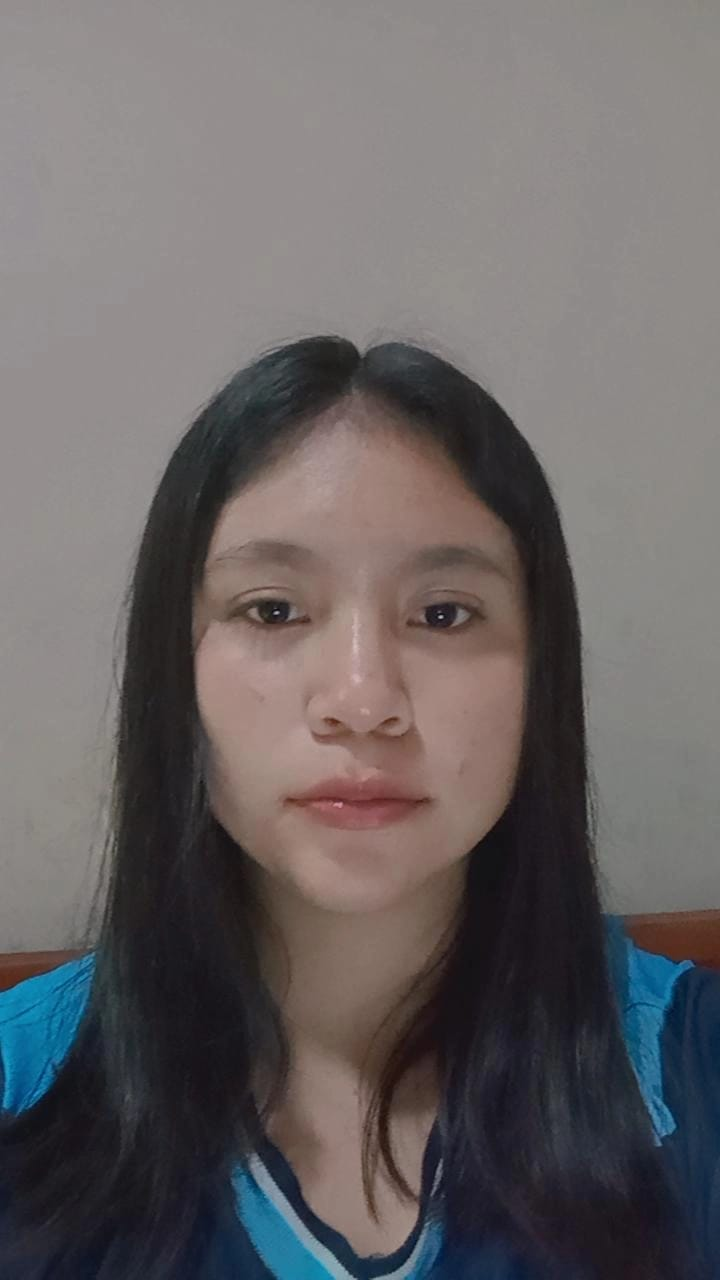
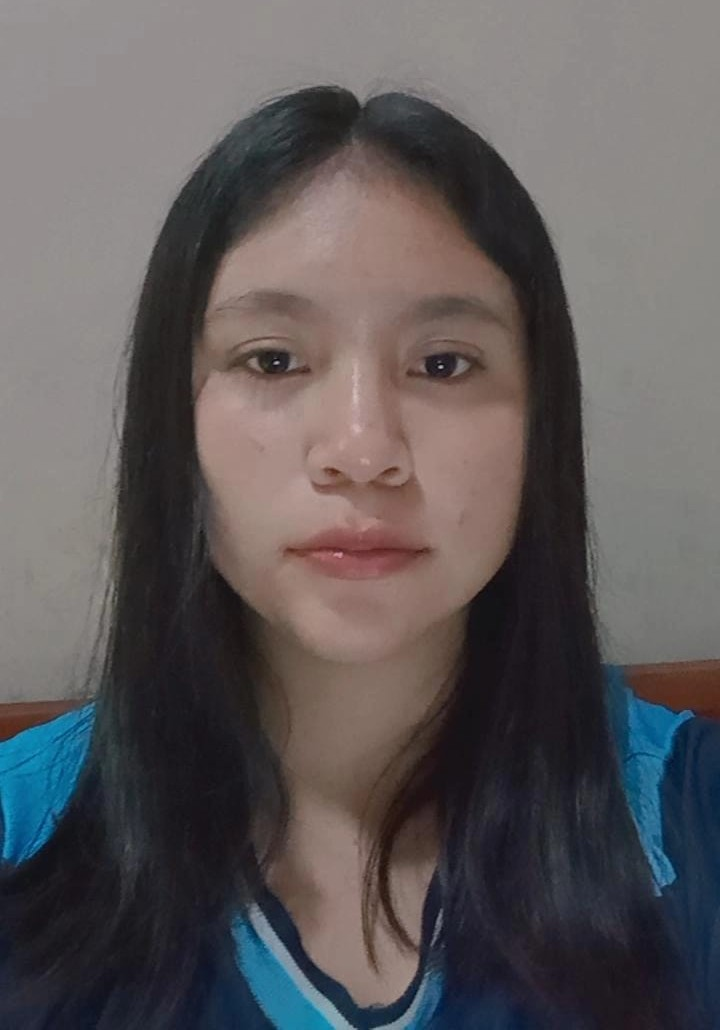
Agregué una imágen, descripción y link

diff --git a/index.html b/index.html
@@ -389,6 +389,30 @@
                     <!-- Section Jhoiner Velasco  End -->
 
 
+
+                    <!-- Section Tair Sangama Start -->
+                <section class="testimony__body" data-id="16">
+                    <div class="testimony__texts">
+                        <h2 class="subtitle">Mi nombre es Tair Sangama, <span
+                                class="testimony__course">estudiante.</span></h2>
+                        <p class="testimony__review">Soy Tair Sangama, estudiante de Ingeniería de Software con IA en SENATI.
+                        </p>
+                        <p> Soy practicante en el IIAP y actualmente me desempeño en el área de Front-End.
+                             Me apasiona crear interfaces web modernas, 
+                            funcionales y fáciles de usar.
+                            Mi objetivo es seguir aprendiendo y perfeccionando mis habilidades para aportar 
+                            soluciones creativas y eficientes en el desarrollo web.
+                        </p>
+                    </div>      
+                        
+                        <figure class="testimony__picture">
+
+                        <img src="./images/face.tair.jpeg" class="testimony__img">
+                    </figure>
+                </section>
+                <!-- Section Tair Sangama End -->
+
+
                     <img src="./images/rightarrow.svg" class="testimony__arrow" id="next">
             </div>
         </section>
@@ -564,21 +588,7 @@
 
 
 
-                 <!-- Section Article de Tair Sangama  Start-->
-                <article class="questions__padding">
-                    <div class="questions__answer">
-                        <h3 class="questions__title">Tair Sangama 
-                            <span class="questions__arrow questions__arrow--rotate">
-                                <img src="./images/arrow.svg" class="questions__img">
-                            </span>
-                        </h3>
-
-                        <p class="questions__show">Ingresa a mi perfil de GitHub: <a
-                                href="https://tairasuiza10.github.io/mi-portafolio-y-registros/">Presiona Aquí</a></p>
-                    </div>
-                </article>
-
-                <!-- Section Article de Nick Sandoval Perez End-->
+                 
 
                 <!-- Section Article de Christopher Joshua start-->
                 <article class="questions__padding">
@@ -626,6 +636,24 @@
                 </article>
 
                 <!-- Section Article Jhoiner Velasco End-->
+
+
+                 <!-- Section Article Tair Sangama Start-->
+                <article class="questions__padding">
+                    <div class="questions__answer">
+                        <h3 class="questions__title">Tair Sangama
+                            <span class="questions__arrow questions__arrow--rotate">
+                                <img src="./images/arrow.svg" class="questions__img">
+                            </span>
+                        </h3>
+
+                        <p class="questions__show">Ingresa a mi perfil de GitHub 🧑🎓: <a
+                                href="https://tairasuiza10.github.io/mi-portafolio-y-registros/" target="_blank">Has clíc
+                                Aquí</a></p>
+                    </div>
+                </article>
+
+                <!-- Section Article Tair Sangama End-->
 
             </section>
 
